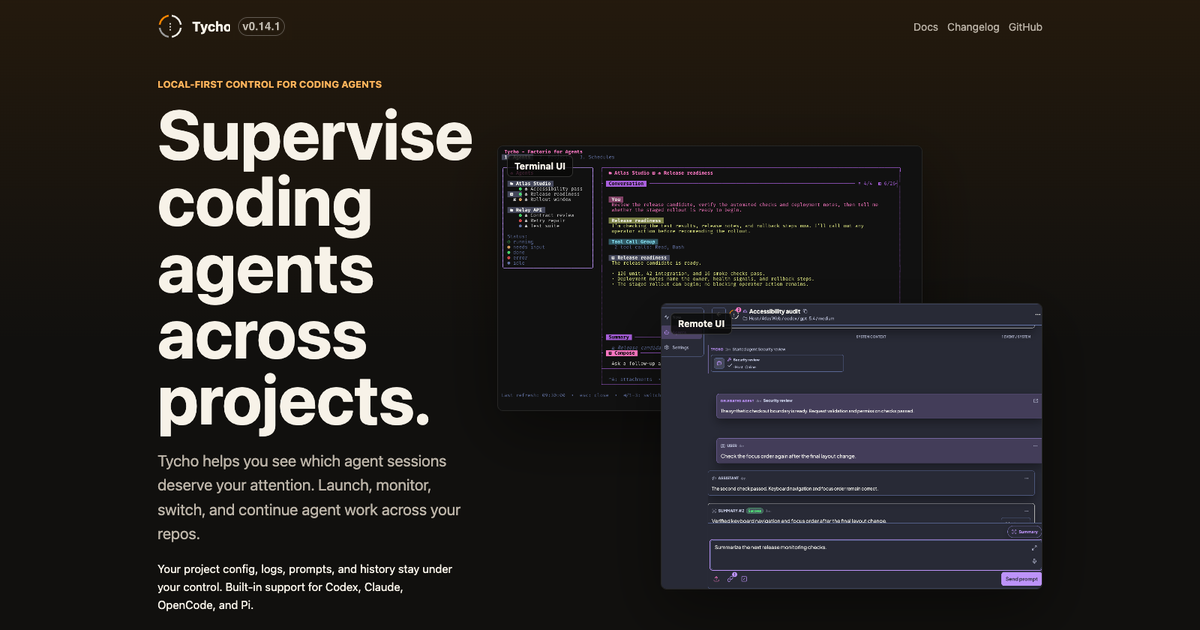
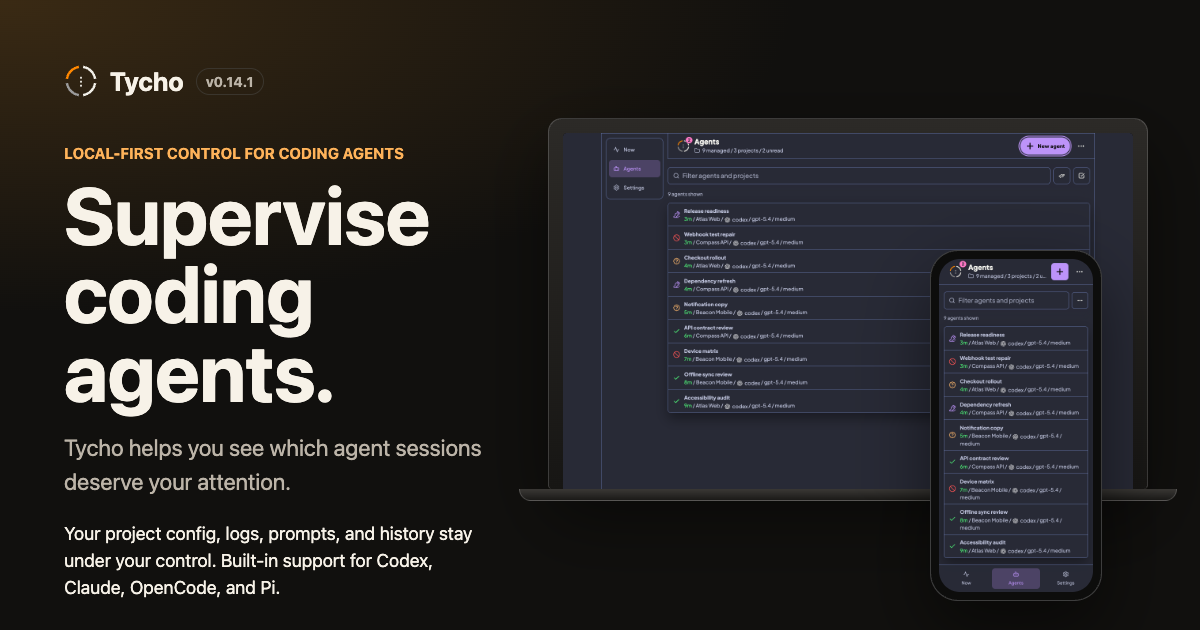
Update homepage hero for Tycho v0.14.1 device frames (#15)
* Update homepage hero for Tycho v0.14.1 device frames

Shorten the homepage tagline to "Supervise coding agents.", remove the
Terminal UI capture, and show the v0.14.1 Remote UI desktop capture in a
laptop frame with the v0.14.1 mobile capture in a phone frame. Regenerate
the 1200x630 Open Graph image to match.

* Move phone camera into the device bezel

Keep the phone's camera cutout clear of the mobile screenshot header.

* Address card 724 review findings

- Add the local-first proof sentence to the OG image.
- Show the phone capture alone below 620px so it stays legible.
- Align meta descriptions with the new promise and add OG image alt text.
- Add a card 724 audit with capture provenance and hashes; correct stale v0.14.1 audit rows.

---------

diff --git a/src/styles/site.css b/src/styles/site.css
@@ -173,19 +173,21 @@ h1 {
 
 .hero-visual {
 	position: relative;
-	min-height: 610px;
 }
 
-.screen {
-	position: absolute;
-	overflow: hidden;
-	border: 1px solid rgba(255, 255, 255, 0.12);
-	border-radius: 8px;
-	background: #080807;
+/* Device frames: a laptop carries the desktop capture, a phone carries the mobile capture. */
+.device-frame {
+	position: relative;
+	margin: 0;
 	box-shadow: var(--shadow);
 }
 
-.screen img {
+.device-screen {
+	overflow: hidden;
+	background: #080807;
+}
+
+.device-screen img {
 	display: block;
 	width: 100%;
 	height: 100%;
@@ -193,32 +195,68 @@ h1 {
 	object-position: top center;
 }
 
-.screen-label {
-	position: absolute;
-	top: 12px;
-	left: 12px;
-	z-index: 1;
-	padding: 6px 9px;
+.device-frame-laptop {
+	padding: 2.4% 2.4% 0;
 	border: 1px solid rgba(255, 255, 255, 0.16);
-	border-radius: 6px;
-	background: rgba(8, 8, 7, 0.82);
-	color: var(--text);
-	font-size: 12px;
-	font-weight: 700;
+	border-bottom: 0;
+	border-radius: 14px 14px 4px 4px;
+	background: linear-gradient(180deg, #2c2a27, #171614);
 }
 
-.screen-tui {
+.device-frame-laptop .device-screen {
+	aspect-ratio: 16 / 10;
+	border-radius: 4px 4px 0 0;
+}
+
+.device-base {
+	position: relative;
+	height: 14px;
+	margin: 0 -5%;
+	border: 1px solid rgba(255, 255, 255, 0.16);
+	border-top: 0;
+	border-radius: 0 0 16px 16px;
+	background: linear-gradient(180deg, #3a3835, #1b1a18);
+}
+
+.device-base::before {
+	content: '';
+	position: absolute;
 	top: 0;
-	left: 0;
-	width: 78%;
-	aspect-ratio: 8 / 5;
+	left: 50%;
+	width: 14%;
+	height: 5px;
+	transform: translateX(-50%);
+	border-radius: 0 0 8px 8px;
+	background: #0c0b0a;
 }
 
-.screen-web {
-	right: 0;
-	bottom: 18px;
-	width: 70%;
-	aspect-ratio: 4 / 3;
+.device-frame-phone {
+	position: absolute;
+	right: -3%;
+	bottom: -7%;
+	width: 27%;
+	padding: 22px 4% 4%;
+	border: 1px solid rgba(255, 255, 255, 0.2);
+	border-radius: 30px;
+	background: #0d0d0c;
+	z-index: 1;
+}
+
+.device-frame-phone .device-screen {
+	aspect-ratio: 390 / 844;
+	border-radius: 22px;
+}
+
+.device-camera {
+	position: absolute;
+	top: 7px;
+	left: 50%;
+	width: 24%;
+	height: 10px;
+	transform: translateX(-50%);
+	border-radius: 999px;
+	background: #050505;
+	z-index: 2;
 }
 
 .workflow {
@@ -390,16 +428,13 @@ h1 {
 		padding-top: 28px;
 	}
 
-	.hero-visual {
-		min-height: 520px;
+	.device-frame-phone {
+		right: 0;
+		width: 25%;
 	}
 
-	.screen-tui {
-		width: 88%;
-	}
-
-	.screen-web {
-		width: 82%;
+	.device-base {
+		margin-inline: -3%;
 	}
 }
 
@@ -474,17 +509,16 @@ h1 {
 		margin-top: 36px;
 	}
 
-	.hero-visual {
-		min-height: 0;
+	/* On phones the laptop capture would shrink to unreadable text, so the phone capture carries the hero alone. */
+	.device-frame-laptop {
+		display: none;
 	}
 
-	.screen-tui,
-	.screen-web {
+	.device-frame-phone {
 		position: relative;
-		width: 100%;
-	}
-
-	.screen-web {
-		margin-top: 14px;
+		right: auto;
+		bottom: auto;
+		width: 94%;
+		margin: 0 auto;
 	}
 }

diff --git a/docs/audits/2026-10-26-card724-homepage-frames.md b/docs/audits/2026-10-26-card724-homepage-frames.md
@@ -1,0 +1,54 @@
+# Card 724 homepage frames audit
+
+This audit supports [Fizzy card 724](https://fizzy.startkit.tech/1/cards/724) and [draft PR 15](https://github.com/firewalker06/tycho-site/pull/15). It follows [ADR 004](https://github.com/firewalker06/tycho-site/blob/main/docs/decisions/adr-004-release-version-and-screenshots.md) and the [site release checklist](https://github.com/firewalker06/tycho-site/blob/main/docs/RELEASING.md).
+
+## Source and provenance
+
+- Product source: Tycho tag `v0.14.1`, commit `2092ce32874d1b874bb467b8d293f986c7b5648a`. The tag was fetched into the product repository and extracted with `git archive` into a temporary directory outside every checkout.
+- Product checkout: not modified. No product source was changed to make the UI look different.
+- Ruby gems: the global gem install was used. `bundle install` into a vendor path failed on native extensions in this environment, as recorded in the [v0.14.1 audit](https://github.com/firewalker06/tycho-site/blob/main/docs/audits/2026-10-26-v0.14.1.md).
+- Capture tool: a copy of the tag's `bin/capture-site-quickstart`. The copy changes only the browser step and the output path.
+- Fixture: the tag's synthetic quickstart fixture, with the Atlas Web, Compass API, and Beacon Mobile projects and nine agents. Config, logs, and workspaces are isolated in a temporary directory. The remote token is empty and the server binds to `127.0.0.1`.
+- Browser: Google Chrome 155.0.8059.85, headless, dark color scheme.
+
+## Captures
+
+| Asset | Source | Viewport | Scale | Pixels | SHA-256 |
+| --- | --- | --- | --- | --- | --- |
[3 lines of base64/hex data omitted]
+
+### Mobile capture fixture changes
+
+- The tag's quickstart script was used, with its launch-modal and desktop fit steps replaced by a mobile step.
+- The mobile step opens `#agents`, asserts nine agent rows, asserts no horizontal overflow, blurs the autofocused filter input so no focus ring appears, and captures the viewport.
+- No fixture data was changed.
+
+## Removed asset
+
[1 lines of base64/hex data omitted]
+
+## Homepage decisions
+
+- The tagline is "Supervise coding agents." in the H1, the page title, the README, AGENTS.md, the manifest, and the Starlight config.
+- The meta, Open Graph, and Twitter descriptions are now "Tycho is a local-first operator console for supervising coding agents." The "across projects" phrase was removed to match the new promise.
+- `og:image:alt` and `twitter:image:alt` describe the OG image.
+- Below 620 px, the laptop frame is hidden and the phone frame spans the column. At that width the laptop capture would show text too small to read. The phone capture is the only hero visual on phones, and its frame does not overlap any other content.
+- Between 620 and 920 px, both frames show. The phone frame sits at the laptop's lower-right corner.
+- The phone camera cutout sits inside the bezel.
+
+## Browser verification
+
+Checked on the rebuilt `dist/` in Chrome 155.0.8059.85 (see the PR head SHA for the exact build):
+
+- Overflow: zero horizontal overflow at 1440, 900, and 390 px.
+- Images: all content images returned HTTP 200 and have alt text.
+- Keyboard: the header links receive focus in order, then the hero links.
+- Visuals: the desktop hero, mobile hero, and OG image were inspected as images. Each one matches its capture, and the OG image contains the proof sentence.
+
+## Open gates
+
+1. Independent review on the exact pushed head. The parent commissions it.
+2. Native PR image evidence is refreshed on the final head and verified by URL.
+3. No merge or deployment is part of this audit.

diff --git a/docs/audits/2026-10-26-v0.14.1.md b/docs/audits/2026-10-26-v0.14.1.md
@@ -41,8 +41,8 @@ These capture-tool defects are not site changes. They are logged in the product 
 | `web-delegation-v0.14.0.png` | Homepage and Concept page | Keep. Accepted by the parent. | Parent and child session with a returned report. The only v0.14.1 visual difference in this view is a cosmetic harness mark beside `codex` in the detail header. The layout and the claims it supports (parent session, delegated children, returned report) are unchanged. Recapture if any other visual change is found. |
 | `web-summary-v0.14.0.png` | Configuration page | Keep. Accepted by the parent. | Summary run view. The v0.14.1 idle-stop reason fix does not show in this fixture. The only v0.14.1 visual difference is the cosmetic harness mark in the detail header. The layout and the summary claims are unchanged. |
 | `remote-new-agent.png` | Getting Started | Keep | Full New agent form. The v0.14.1 change is the Quick Agent Options area, which this full form does not show. |
-| `tui-conversation-v0.10.0.png` | Homepage | Keep | ADR 004 names it as the canonical Terminal UI capture. The release notes change no TUI behavior. |
[1 lines of base64/hex data omitted]
+| `tui-conversation-v0.10.0.png` | Homepage | Removed by card 724 ([audit](https://github.com/firewalker06/tycho-site/blob/main/docs/audits/2026-10-26-card724-homepage-frames.md)). The homepage no longer shows a TUI image, and the file was deleted from `public/assets/`. Earlier "Keep" decision superseded. |
[1 lines of base64/hex data omitted]
 
 The two `v0.14.0` captures for the Agents list are replaced. The `v0.14.0` files for the launch and watch images are removed from the repo, because nothing references them.
 

diff --git a/docs/RELEASING.md b/docs/RELEASING.md
@@ -17,7 +17,7 @@ This checklist implements [ADR 004](https://github.com/firewalker06/tycho-site/b
 - [ ] Inventory every public screenshot, including unused files and the social preview. Record its route or use, provenance, fixture story, and a keep, replace, or remove decision with a reason.
 - [ ] Recapture only when UI changed materially, fixture content names an old release, or the image cannot support its surrounding claim. A filename with an old version is not by itself a reason to recapture. Retention needs explicit evidence. Do not require a full recapture when the audit supports retention.
 - [ ] Use the exact release tag for product captures. If a product checkout is occupied, export an immutable tag archive outside checkouts. Use synthetic fixtures and isolated state, config, logs, credentials, and harness executables. Never capture personal sessions, hosts, tokens, or config. Record capture commands, fixture changes, viewport, browser version, and output hashes. Do not alter product source to make the UI look different.
-- [ ] Preserve the site's visual identity, the promise “Supervise coding agents across projects,” and the local-first proof. Use “agent sessions” in public copy. Keep multiserver images paired where that story is shown.
+- [ ] Preserve the site's visual identity, the promise “Supervise coding agents.” and the local-first proof. Use “agent sessions” in public copy. Keep multiserver images paired where that story is shown.
 
 ## 3. Install, build, and inspect
 

diff --git a/AGENTS.md b/AGENTS.md
@@ -18,7 +18,7 @@ This is the public landing page and documentation site for Tycho.
 ## Content Direction
 
 - Primary audience: solo developers and technical leads managing many coding-agent sessions.
-- Primary promise: "Supervise coding agents across projects."
+- Primary promise: "Supervise coding agents."
 - Supporting sentence: "Tycho helps you see which agent sessions deserve your attention."
 - Feature pillars: Supervise, Switch, Loop.
 - Use "agent sessions" in public copy; define "managed agent" in reference material.

diff --git a/docs/decisions/adr-004-release-version-and-screenshots.md b/docs/decisions/adr-004-release-version-and-screenshots.md
@@ -2,7 +2,7 @@
 
 ## Status
 
-Accepted.
+Accepted. The homepage hero no longer uses the v0.10.0 Terminal UI capture described below. Fizzy card 724 replaced it with a v0.14.1 laptop frame and a v0.14.1 phone frame. The Terminal UI asset was removed from `public/assets/`.
 
 ## Context
 

diff --git a/README.md b/README.md
@@ -60,7 +60,7 @@ Cloudflare owns DNS for `usetycho.com`, and Pages manages the production custom-
 
 ## Content Direction
 
-Primary promise: "Supervise coding agents across projects."
+Primary promise: "Supervise coding agents."
 
 Feature pillars: Supervise, Switch, Loop.
 

diff --git a/docs/decisions/adr-001-website-direction.md b/docs/decisions/adr-001-website-direction.md
@@ -2,7 +2,7 @@
 
 ## Status
 
-Accepted.
+Accepted. The homepage tagline was later shortened to "Supervise coding agents." by Fizzy card 724. Read the bullet about the homepage tagline below as the original decision.
 
 ## Context
 
